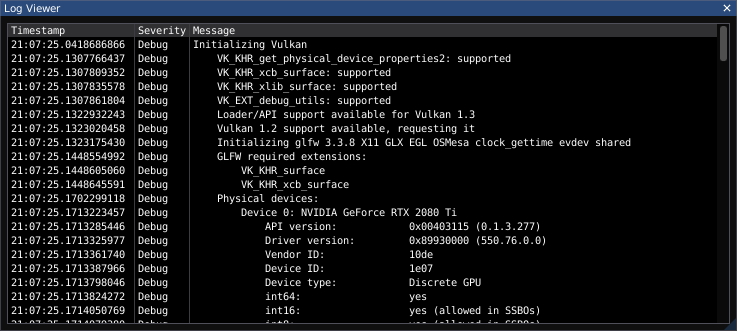
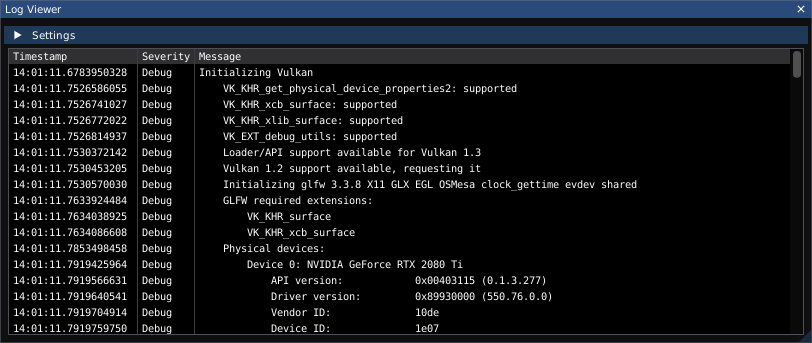
Updated screenshots in docs to match current application appearance. Added documentation on filters in log viewer dialog. Removed documentation of no-longer-present timebase properties dialog.

Changed region(s): [[0.0, 0.0, 0.9986, 0.997]]

diff --git a/section-dialogs.tex b/section-dialogs.tex
@@ -45,6 +45,19 @@ It can be found under the \menustyle{Window | Log Viewer} menu.
 \label{fig:logviewer}
 \end{figure}
 
+Expanding the ``settings" panel allows log messages to be filtered to show more or less detail.
+
+Additionally, if ``trace" verbosity is selected, you can type class and/or function names using the \texttt{classname},
+\texttt{classname::function}, or \texttt{::globalfunction} syntax in order to enable high-verbosity messages printed
+via \texttt{LogTrace()}.
+
+\begin{figure}[H]
+\centering
+\bigimage{ng-images/dialog-logviewer-trace.png}
+\caption{Log Viewer dialog with tracing active}
+\label{fig:logviewer-trace}
+\end{figure}
+
 %%%%%%%%%%%%%%%%%%%%%%%%%%%%%%%%%%%%%%%%%%%%%%%%%%%%%%%%%%%%%%%%%%%%%%%%%%%%%%%%%%%%%%%%%%%%%%%%%%%%%%%%%%%%%%%%%%%%%%%%
 
 \section{Performance Metrics}
@@ -124,14 +137,14 @@ display), specify the set of channels which should be shown after connecting.
 \subsubsection{Rigol DHO}
 
 \begin{itemize}
-\item \emph{Data Width} (default on): Specifies whether to use 8 bit or 16 bit transfer format when downloading samples
+\item \emph{Data Width} (default auto): Specifies whether to use 8 bit or 16 bit transfer format when downloading samples
 from the instrument, or automatically decide based on hardware configuration.
 \end{itemize}
 
 \subsubsection{Siglent SDS HD}
 
 \begin{itemize}
-\item \emph{Data Width} (default on): Specifies whether to use 8 bit or 16 bit transfer format when downloading samples
+\item \emph{Data Width} (default auto): Specifies whether to use 8 bit or 16 bit transfer format when downloading samples
 from the instrument, or automatically decide based on hardware configuration.
 \end{itemize}
 
@@ -140,8 +153,12 @@ from the instrument, or automatically decide based on hardware configuration.
 \begin{itemize}
 \item \emph{Force 16 bit mode} (default on): Always use 16-bit format for downloading data from the instrument, even if
 it only has an 8-bit ADC. This doubles the amount of network bandwidth required and may reduce waveforms-per-second
-performance, but provides smoother waveforms since the instrument performs DSP flatness correction leading to >256
-possible output values in a given waveform.
+performance, but provides smoother waveforms.
+
+Note that Teledyne LeCroy scopes perform DSP flatness corrections between the ADC and the data presented via the API,
+meaning that even if the hardware only has an 8-bit ADC, downloading data with 16-bit precision will result in improved
+accuracy.
+
 \end{itemize}
 
 \subsection{Files}
@@ -189,7 +206,7 @@ The Speed Bump dialog is displayed when loading a session file online (reconnect
 prior to committing changes to the instrument, if:
 
 \begin{itemize}
-\item The session file contains any user-created notes on the lab setup
+\item The session file contains any user-created notes on the lab setup, or
 \item Any of the instrument settings in the session file do not match the current configuration of the corresponding
 instrument, and the direction of the change has potential to cause damage to the instrument or DUT (increasing output
 voltage, removing input attenuation, etc).
@@ -201,7 +218,7 @@ switching a lab bench between multiple projects and using saved sessions to rest
 
 Pressing the Abort button cancels loading of the session without applying any of the potentially dangerous changes.
 The instruments may be partially reconfigured in this state, as some changes (such as sample rate or memory depth
-configuration) are always safe to make and thus may execute prior to the warning being displayed.
+configuration) are always safe to make and thus may have been applied prior to the warning being displayed.
 
 Pressing the Proceed button allows ngscopeclient to proceed with loading the session and reconfiguring hardware. You
 must check the ``I have reviewed the instrument configuration" box in order to enable the Proceed button.
@@ -213,20 +230,3 @@ must check the ``I have reviewed the instrument configuration" box in order to e
 \label{speedbump}
 \end{figure}
 
-%%%%%%%%%%%%%%%%%%%%%%%%%%%%%%%%%%%%%%%%%%%%%%%%%%%%%%%%%%%%%%%%%%%%%%%%%%%%%%%%%%%%%%%%%%%%%%%%%%%%%%%%%%%%%%%%%%%%%%%%
-
-\section{Timebase}
-\label{dlg:timebase}
-
-The Timebase dialog allows you to configure sample rate and record length for oscilloscopes. It also provides control
-over functionally similar ``what to look at" settings for other instruments, such as center frequency and span for
-spectrum analyzers or sweep range and point count for vector network analyzers.
-
-It can be found under the \menustyle{Setup | Timebase} menu.
-
-\begin{figure}[H]
-\centering
-\includegraphics[width=7cm]{ng-images/dialog-timebase.png}
-\caption{Timebase dialog}
-\label{timebase}
-\end{figure}

diff --git a/section-gettingstarted.tex b/section-gettingstarted.tex
@@ -64,9 +64,9 @@ The latest released binaries can be downloaded from GitHub at \url{https://githu
 \subsection{Development Builds}
 
 If you are feeling adventurous and want to try bleeding-edge code, or are testing a fix at a developer's request,
-packages for a limited set of platforms (currently Ubuntu 20.04, 22.04, 24.04, Arch, Fedora, Debian oldstable, Debian stable,
-MacOS, and Windows) are automatically built each commit as part of the GitHub CI pipeline. These packages are not
-signed and may
+packages for a limited set of platforms (currently Ubuntu 20.04, 22.04, 24.04, Arch, Fedora, Debian oldstable, Debian
+stable, MacOS, and Windows) are automatically built each commit as part of the GitHub CI pipeline. Unlike release
+packages, CI builds are not signed so you may encounter security warnings on some platforms when installing them.
 
 To access development packages, log into GitHub (sorry, development binaries are not available to
 anonymous users - this is on GitHub's end and not under our control) and go to
@@ -171,10 +171,6 @@ distros), the following instructions cover installing and loading the Vulkan SDK
 The latest tested SDK at the time of documentation update is version 1.3.275.0. Newer SDKs are supported, but breaking
 changes sometimes take place.
 If you are using a newer SDK and run into problems, please file a bug report.
-
-If you are using Ubuntu 20.04 or 22.04, you may install the
-\href{https://packages.lunarg.com}{.deb packaged SDK release} instead of following the instructions below. This may
-work for Debian as well but is not supported.
 
 Alternatively, to use the tarball packaged SDK, download and unpack the tarball.
 \href{https://vulkan.lunarg.com/sdk/home}{You can manually download the SDK}, or do the following:
@@ -283,22 +279,22 @@ The following steps can be done in any MSYS-provided shell.
 
 \item Install git and the toolchain:
 \begin{lstlisting}[language=sh, numbers=none]
-pacman -S git wget mingw-w64-ucrt-x86\_64-cmake mingw-w64-ucrt-x86\_64-toolchain
+pacman -S git wget mingw-w64-ucrt-x86_64-cmake mingw-w64-ucrt-x86_64-toolchain
 \end{lstlisting}
 
 \item Install general dependencies:
 \begin{lstlisting}[language=sh, numbers=none]
-pacman -S mingw-w64-ucrt-x86\_64-libsigc++ mingw-w64-ucrt-x86\_64-yaml-cpp mingw-w64-ucrt-x86\_64-glfw mingw-w64-ucrt-x86\_64-catch mingw-w64-ucrt-x86\_64-hidapi mingw-w64-ucrt-x86\_64-libpng
+pacman -S mingw-w64-ucrt-x86_64-libsigc++ mingw-w64-ucrt-x86_64-yaml-cpp mingw-w64-ucrt-x86_64-glfw mingw-w64-ucrt-x86_64-catch mingw-w64-ucrt-x86_64-hidapi mingw-w64-ucrt-x86_64-libpng
 \end{lstlisting}
 
 \item Install Vulkan dependencies:
 \begin{lstlisting}[language=sh, numbers=none]
-pacman -S mingw-w64-ucrt-x86\_64-vulkan-headers mingw-w64-ucrt-x86\_64-vulkan-loader mingw-w64-ucrt-x86\_64-shaderc mingw-w64-ucrt-x86\_64-glslang mingw-w64-ucrt-x86\_64-spirv-tools
+pacman -S mingw-w64-ucrt-x86_64-vulkan-headers mingw-w64-ucrt-x86_64-vulkan-loader mingw-w64-ucrt-x86_64-shaderc mingw-w64-ucrt-x86_64-glslang mingw-w64-ucrt-x86_64-spirv-tools
 \end{lstlisting}
 
 \item Install FFTS:
 \begin{lstlisting}[language=sh, numbers=none]
-pacman -S mingw-w64-ucrt-x86\_64-ffts
+pacman -S mingw-w64-ucrt-x86_64-ffts
 \end{lstlisting}
 
 \item Check out the code
@@ -374,7 +370,9 @@ cmake .. -DWIXPATH="C:\Program Files (x86)\WiX Toolset v3.14\bin"
 
 \item Run scopehal and scopehal-apps:
 
-Building scopehal and scopehal-apps with MSYS2 will install requierd dependencies in MSYS2's libpath, that's why ngscopeclient has to be launched from a MSYS2 shell (use MSI installer to generate a standalone package).
+Building scopehal and scopehal-apps with MSYS2 will install required dependencies in MSYS2's libpath, so locally
+compiled builds of ngscopeclient have to be launched from a MSYS2 shell (use MSI installer to generate a standalone
+package including these libraries).
 
 The binaries can be found in the build directory, such as ngscopeclient in \$HOME/scopehal-apps/build/src/ngscopeclient.
 

diff --git a/section-legal.tex b/section-legal.tex
@@ -74,5 +74,5 @@ respective owners.
 \subsection{Only in unit tests}
 \begin{itemize}
 \item FFTS (shared, BSD-3) - \url{https://github.com/anthonix/ffts/blob/master/COPYRIGHT}
-\item catch2 (static, Boost license) - \url{https://github.com/catchorg/Catch2/blob/devel/LICENSE.txt} - only used in unit tests
+\item catch2 (static, Boost license) - \url{https://github.com/catchorg/Catch2/blob/devel/LICENSE.txt}
 \end{itemize}
